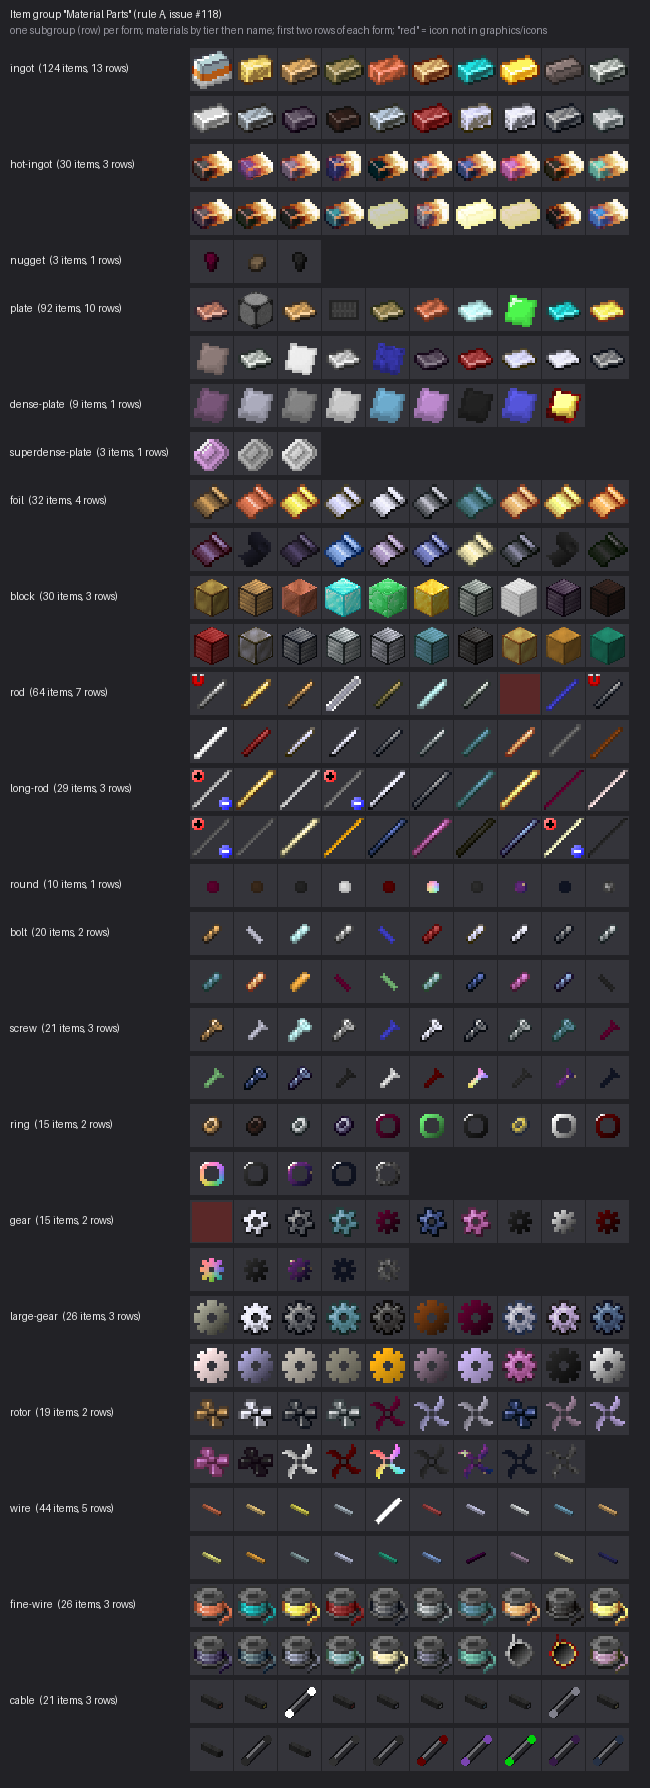
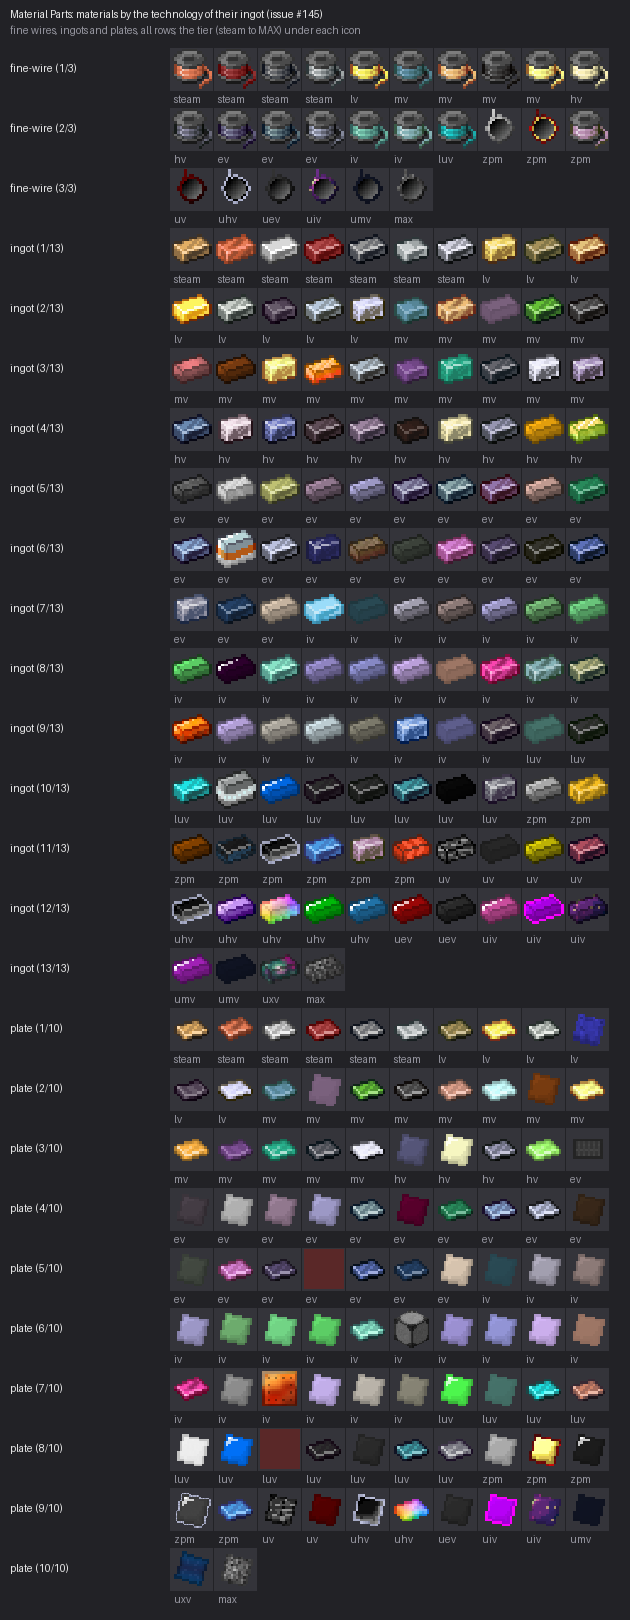
Order the material parts by the technology that unlocks the ingot (issue #145)
The tier of a material in the Material Parts tab was the tier of the fluid
solidifier that casts it (europium: LV), not the one the player meets it in.
Now it is the tier of the earliest technology that unlocks a recipe making its
ingot (the highest science pack of the technology; a recipe enabled from the
start counts as steam), for a material without an ingot the earliest technology
of any of its parts. The file moves to 200 and loads after 199, so the unlocks
199 adds count. 81 materials keep their place, 50 move later, 8 earlier.

diff --git a/tools/devcheck/devcheck.py b/tools/devcheck/devcheck.py
@@ -511,7 +511,7 @@ def check_fluid_steps(sec):
 
 
 def check_material_parts(sec):
-    """Issue #118 (prototypes/194-fork-material-parts.lua): the material parts are in the rows of the item group "Material
+    """Issue #118 (prototypes/200-fork-material-parts.lua): the material parts are in the rows of the item group "Material
     parts", one per form, the materials by tier. A material with no tier (no solidifier tier, no recipe that makes one of its
     parts) goes last in its rows: a warning, its place is the table of tiers in 143 or a recipe. Returns (info line,
     materials without a tier)."""
@@ -767,7 +767,7 @@ def check(a):
     report("items that only the crafting table or the hand can make, without an entry in FORK_RECIPES_TABLE_ONLY", table_only)
     parts_info, parts_unranked = check_material_parts(sec)
     print(f"\nmaterial parts (issue #118): {parts_info}")
-    report("WARNING: materials of the material parts without a tier (prototypes/194-fork-material-parts.lua)", parts_unranked)
+    report("WARNING: materials of the material parts without a tier (prototypes/200-fork-material-parts.lua)", parts_unranked)
     microminer = check_microminer_tab(sec)
     report("Microverse Projector recipes outside the Microminer tab (issue #120)", microminer)
     report("WARNING: fluids of the Fluids tab with an icon of the base game or Space Age (issue #119; "

diff --git a/tools/devcheck/README.md b/tools/devcheck/README.md
@@ -25,7 +25,7 @@ linked in, so every run tests the current files.
 
 | Command | What it does |
 |---|---|
-| `check` | Creates a map. Reports load errors, draft recipes hidden by the draft guard (it fails on one that is not in the documented rest list `DRAFTS_OK`, issue #39; drafts removed for good are deleted in `prototypes/137-fork-endgame-materials.lua` and counted as `FORK-REMOVED`), researchable technologies, where progression stops, every technology that cannot be researched and the disabled or missing prerequisites that block it (it fails if one is not in the list `UNRESEARCHABLE_OK` of vanilla armor, equipment and military techs, if one of the 23 quality-of-life techs of issue #29 in `QOL_TECHS` is neither researchable nor hidden, or if an `UNRESEARCHABLE_OK` entry became researchable, hidden or missing), missing `__gregtorio-continued__/` files, too small sprite sheets, and unlocked recipes that cannot be crafted (no machine, unobtainable ingredient, not enough fluid ports; a fuel that a burner which can be built burns leaves its burnt result, so the depleted fuel rods count as obtainable). Recipe unlocks (issue #91): every recipe that Gregtorio creates or changes (`prototypes.get_history`, logged by `checkmod/control.lua`) and that is not hidden must be enabled or unlocked by a researchable technology, unless it is in the allow-list `FORK_RECIPES_LOCKED` (`prototypes/142-fork-recipe-unlocks.lua`, with the reason); an entry that does not exist or is unlocked fails too. The recipes in `REQUIRED_RECIPES` (issue #35: grades 7 and 8, the quark creation catalyst, FPIC/APIC wafers and chips, complex SMDs; the materials of issues #39 and #36; the plasma forge and QFT of phase 6a; the godforge, its products and the MAX tier of phase 6b) must be unlocked by a researchable technology and their products obtainable. Crafting menu (issue #49): every recipe that is enabled or unlocked by a technology, not `hidden` and whose category has a machine must not be `hide_from_player_crafting`, unless it is in the allow-list `FORK_CRAFTING_MENU_HIDDEN` (`prototypes/198-fork-crafting-menu.lua`, by category, subgroup or name); it prints how many are shown and kept hidden and the recipes shown per crafting menu tab, and also fails on allow-list entries that match nothing. Skipped when the startup setting `gregtorio-continued-show-machine-recipes` is off. Material parts (issue #118, `prototypes/194-fork-material-parts.lua`): `check` prints how many parts of how many materials are in the rows by form and warns for a material that has no tier (section `MATERIALPARTS` of the dump). Microminer tab (issue #120, `prototypes/195-fork-microminer-tab.lua`): every recipe of a Microverse Projector's categories, the projectors and their controller must be in a row of the item group `microminer-tab` (one tab in the projector's recipe window). Crafting table and hand only items (issue #126, `prototypes/148-fork-gtnh-table-items.lua`): a reachable item whose every recipe is table or hand only (no obtainable machine has its category except the crafting table and the ME Molecular Assembler; the character is no machine) fails unless the recipes are in the allow-list `FORK_RECIPES_TABLE_ONLY` with their reason; an entry that is not such a recipe fails too (section `TABLEONLYOK` of the dump). Fluids tab: every fluid that is not hidden (the base game's parameter fluids excepted) must have a subgroup of the item group `fluids`, else Factorio shows it under "Unsorted" (`prototypes/196-fork-subgroups.lua`); the check covers every fluid of the load, so also a vanilla fluid that Gregtorio redefines; fluids in the fallback row `gregtorio-fluids-unsorted` are listed as a warning; so are fluids of the tab whose icon is not a Gregtorio file (issue #119), unless the fluid is in the allow-list `FORK_FLUID_ICONS_KEPT` of `prototypes/196-fork-subgroups.lua` with its reason; it prints the rows with their sizes. Fluid steps (issue #117, `prototypes/197-fork-fluid-steps.lua`): the game cuts every fluid amount of a recipe at a multiple of 2^-24, so every amount of every recipe must be a multiple of it (`check` lists the ones that are not; section `FLUIDSTEPS` of the dump). `--fluids-out fluids.tsv` writes the fluids with subgroup, order and icon (section `FLUIDS` of the dump), the input of `tools/gen_review_sheet.py fluids`. `--locale-out names.tsv` also writes the input for `tools/gen_locale.py`. `--techs REGEX` lists the matching technologies and whether they are researchable. `--balance-out dump.json` writes the recipes (amounts, times), machine speeds and technology unit counts as JSON (section `BALANCE` of the dump), the input of `tools/balance_model.py`. Cheap research: with the startup setting `gregtorio-continued-one-pack-research` on, every technology with science packs must cost one unit of one pack of each kind (`prototypes/fork-one-pack-research.lua`); with it off, the check only reports how many cost more. `--set <setting>=true|false` forces a bool startup setting for the run (a generated helper mod sets it in the settings stage); every run starts from the default settings, `mod-settings.dat` is removed. |
+| `check` | Creates a map. Reports load errors, draft recipes hidden by the draft guard (it fails on one that is not in the documented rest list `DRAFTS_OK`, issue #39; drafts removed for good are deleted in `prototypes/137-fork-endgame-materials.lua` and counted as `FORK-REMOVED`), researchable technologies, where progression stops, every technology that cannot be researched and the disabled or missing prerequisites that block it (it fails if one is not in the list `UNRESEARCHABLE_OK` of vanilla armor, equipment and military techs, if one of the 23 quality-of-life techs of issue #29 in `QOL_TECHS` is neither researchable nor hidden, or if an `UNRESEARCHABLE_OK` entry became researchable, hidden or missing), missing `__gregtorio-continued__/` files, too small sprite sheets, and unlocked recipes that cannot be crafted (no machine, unobtainable ingredient, not enough fluid ports; a fuel that a burner which can be built burns leaves its burnt result, so the depleted fuel rods count as obtainable). Recipe unlocks (issue #91): every recipe that Gregtorio creates or changes (`prototypes.get_history`, logged by `checkmod/control.lua`) and that is not hidden must be enabled or unlocked by a researchable technology, unless it is in the allow-list `FORK_RECIPES_LOCKED` (`prototypes/142-fork-recipe-unlocks.lua`, with the reason); an entry that does not exist or is unlocked fails too. The recipes in `REQUIRED_RECIPES` (issue #35: grades 7 and 8, the quark creation catalyst, FPIC/APIC wafers and chips, complex SMDs; the materials of issues #39 and #36; the plasma forge and QFT of phase 6a; the godforge, its products and the MAX tier of phase 6b) must be unlocked by a researchable technology and their products obtainable. Crafting menu (issue #49): every recipe that is enabled or unlocked by a technology, not `hidden` and whose category has a machine must not be `hide_from_player_crafting`, unless it is in the allow-list `FORK_CRAFTING_MENU_HIDDEN` (`prototypes/198-fork-crafting-menu.lua`, by category, subgroup or name); it prints how many are shown and kept hidden and the recipes shown per crafting menu tab, and also fails on allow-list entries that match nothing. Skipped when the startup setting `gregtorio-continued-show-machine-recipes` is off. Material parts (issue #118, `prototypes/200-fork-material-parts.lua`): `check` prints how many parts of how many materials are in the rows by form and warns for a material that has no tier (section `MATERIALPARTS` of the dump). Microminer tab (issue #120, `prototypes/195-fork-microminer-tab.lua`): every recipe of a Microverse Projector's categories, the projectors and their controller must be in a row of the item group `microminer-tab` (one tab in the projector's recipe window). Crafting table and hand only items (issue #126, `prototypes/148-fork-gtnh-table-items.lua`): a reachable item whose every recipe is table or hand only (no obtainable machine has its category except the crafting table and the ME Molecular Assembler; the character is no machine) fails unless the recipes are in the allow-list `FORK_RECIPES_TABLE_ONLY` with their reason; an entry that is not such a recipe fails too (section `TABLEONLYOK` of the dump). Fluids tab: every fluid that is not hidden (the base game's parameter fluids excepted) must have a subgroup of the item group `fluids`, else Factorio shows it under "Unsorted" (`prototypes/196-fork-subgroups.lua`); the check covers every fluid of the load, so also a vanilla fluid that Gregtorio redefines; fluids in the fallback row `gregtorio-fluids-unsorted` are listed as a warning; so are fluids of the tab whose icon is not a Gregtorio file (issue #119), unless the fluid is in the allow-list `FORK_FLUID_ICONS_KEPT` of `prototypes/196-fork-subgroups.lua` with its reason; it prints the rows with their sizes. Fluid steps (issue #117, `prototypes/197-fork-fluid-steps.lua`): the game cuts every fluid amount of a recipe at a multiple of 2^-24, so every amount of every recipe must be a multiple of it (`check` lists the ones that are not; section `FLUIDSTEPS` of the dump). `--fluids-out fluids.tsv` writes the fluids with subgroup, order and icon (section `FLUIDS` of the dump), the input of `tools/gen_review_sheet.py fluids`. `--locale-out names.tsv` also writes the input for `tools/gen_locale.py`. `--techs REGEX` lists the matching technologies and whether they are researchable. `--balance-out dump.json` writes the recipes (amounts, times), machine speeds and technology unit counts as JSON (section `BALANCE` of the dump), the input of `tools/balance_model.py`. Cheap research: with the startup setting `gregtorio-continued-one-pack-research` on, every technology with science packs must cost one unit of one pack of each kind (`prototypes/fork-one-pack-research.lua`); with it off, the check only reports how many cost more. `--set <setting>=true|false` forces a bool startup setting for the run (a generated helper mod sets it in the settings stage); every run starts from the default settings, `mod-settings.dat` is removed. |
 | `runtime` | Places every assembling machine that has an item, gives it a recipe and power and runs the map (`--ticks`, default 1500) with a fixed map seed (`--seed`, see below). The ME network's runtime tests are in the mod me-network since issue #83 (`docs/SPLIT.md`): its `tools/devcheck/devcheck.py all --with-gregtorio <this checkout>` runs them on Gregtorio's recipes and machines. An LV alloy smelter with a mold recipe must stop without a mold, then run with a mold in its mold slot (checked when the first glass is out, at the latest 900 ticks later) and keep it there. Endgame power (`prototypes/136-fork-power.lua`, `scripts/fork-power.lua`): a LuV large plasma turbine with helium plasma and a turbine output hatch next to it and a UV large naquadah reactor with naquadah based fuel MK1, each with an electric energy interface drawing the generator's full output; at tick 420 both must generate, the turbine must have burnt about one plasma per second and the hatch must hold the cooled helium for it, the reactor must have burnt fuel at its rate; it reports `power test: ok`. Fuel check (issue #25, `scripts/fork-power.lua`): a LuV plasma turbine with steam from a pipe, a UV naquadah reactor with steam, a plasma turbine with naquadah fuel, a naquadah reactor with helium plasma, a UXV plasma turbine with steam and a UEV plasma turbine with naquadah fuel, each under full load in its own network, must make no power, keep all their fluid and show "Wrong fuel"; after they are emptied and get the right fuel they must run with no status. A running plasma turbine whose plasma is replaced by steam between two checks may burn steam for at most one check interval (10 ticks) and must then stay stopped; it reports `fuel check test: ok (window: ...)`. Cooled fluid (issue #28, `scripts/fork-power.lua`): LuV plasma turbines, each with an output hatch and a load set every tick, burn 4 helium plasma at full load, 2 at 40 % and 1.5 under a burst load (full for 5 ticks out of 23) to the last drop, and each hatch must then hold that much helium; an idle turbine returns only what filling its load's buffer took; a hatch that starts full keeps the rest owed and gets all of it once emptied; two turbines side by side on helium and nitrogen plasma fill only their own hatch. A running turbine is compared as hatch + owed + the energy of the current step / fuel value, tolerance 0.1 % + 0.001 units; it reports `cooled fluid test: ok (... worst error ...)`. The power test uses the same tolerance. Turbine tiers (issue #34): one UHV to UXV large plasma turbine each (helium, nitrogen and iron plasma), a UXV one on neon plasma and two MAX ones (phase 6b: helium and neon plasma), each with an output hatch and a load of twice its output, must generate exactly four amps of their tier per tick and, once their plasma is burnt to the last drop, hold exactly that much cooled fluid (helium, nitrogen, molten iron, neon) in the hatch, same tolerance; it reports `turbine tier test: ok (...)`. Recipes (issue #35, `prototypes/129-fork-water-purification.lua`): above the machine grid, a water purification plant each for grade 7 and grade 8 water, UHV/UEV laser engravers and assembling machines for the FPIC/APIC wafers and chips, UV assembling machines for the five complex SMDs, ZPM assembly lines for the quark creation catalyst, the UEV and UIV energy hatches and the MK4 controller, a circuit assembly line for the wetware mainframe, and for issues #39 and #36 (`prototypes/137-fork-endgame-materials.lua`) the circuit assembler lapotronic energy orb cluster, the high density plutonium steps and the plutonium fuel, super coolant, the 1080k super coolant cell, the fluxed electrum, bedrockium and quantium ingots and melts, naquadah fuel MK2, grade 5 water and the UXV energy hatch, phase 6a's plasma forge catalyst and crude spacetime and a QFT recipe, and phase 6b's raw star matter and neutronium magmatter in a godforge, the stellar catalyst in a plasma forge, the MAX motor, the maximum voltage coil in a MAX assembler and the MAX science pack from MAX parts, and for issue #91 (`prototypes/142-fork-recipe-unlocks.lua`) signalum, the naquadah doped boule, charcoal byproducts, cyanoacetic acid and super glue, nether air in its ender tank, 64 LV motors in the component assembly line, a microminer mission, a depleted fuel rod, a block, a molten alloy and its ingot, a cast of every form (ingot, plate, block, nugget, gear, large gear, rotor, rod, long rod, bolt, ring, screw, round) and three melts of the fluid extractor (`prototypes/143-fork-casting.lua`), blast furnace recipes with neon, krypton and xenon, nitric acid from nitrogen dioxide, raw gasoline, gasoline and the gasoline cell (`prototypes/144-fork-dead-fluids.lua`), and for issue #98 (`prototypes/147-fork-gt-routes.lua`) the sodium persulfate printed board and sodium persulfate, black plutonium and cosmic neutronium in the blast furnace and vacuum freezer, the high octane line (its reactor recipe has five fluid inputs) with its cell, deuterium from hydrogen and the PPIC wafer with molten sunnarium get exactly one craft's ingredients (every item and fluid must fit; a recipe that needs a mold gets one in the mold slot); once a machine crafts, its progress is set close to the end and its main product must come out by tick 900; it reports `recipe test: ok`. Steam turbines (issue #97, `prototypes/145-fork-power-multiblocks.lua`): a large steam turbine on steam and a high pressure steam turbine on superheated steam, each overloaded and with an output hatch, must make exactly their full output (11.25 and 28.35 MW) at tick 240, have burnt their GT flow (180 and 210 per second, counted in the turbine and its pipeline segment) and their hatches must hold 0.0625 distilled water per steam and one steam per superheated steam (hatch + owed + the energy of the current step, the tolerance of the cooled fluid test); superheated steam in the large turbine and steam in the high pressure one must stop them with "Wrong fuel"; each multiblock of issue #97 is put into a blueprint (it must be in it) and mined (its item must come back); it reports `steam turbine test: ok (...)`. Nuclear chain (issue #97): a fluid nuclear reactor with two uranium rods (the first shortened to 2 s) piped into a large heat exchanger on superheated steam, a high pressure steam turbine on it, its steam through an output hatch and pipes into a large steam turbine, both turbines under a load of twice their output; coolant and distilled water are topped up every tick. At tick 1380 a depleted rod must be out and the second rod burning, both turbines must have made power, and their energy since tick 300 must be 3.95 MJ per hot coolant the reactor made (60 % to 125 %: the 4 s crafts and the pipes); a second heat exchanger on the steam recipe turns 32 hot coolant and 80 distilled water into exactly 1280 steam and 32 coolant; it reports `nuclear chain test: ok (...)`. Lapotronic supercapacitor (issue #97): an IV supercapacitor on a network with a LuV plasma turbine (an electric energy interface is tertiary like the accumulator and cannot charge it) must charge at its 20.48 MW from tick 20 to 300 (within 3 %); the turbine is then removed and a UHV air collector (40.96 MW, its air removed every tick) runs from it, which it must feed at 20.48 MW from tick 320 to 600; the IV, LuV and ZPM ones must hold 1012.5, 5062.5 and 25 312.5 GJ; a ZPM one without a network set to 1 TJ at tick 100 must have lost exactly 1 % of its capacity per day for every 10-tick step since; it reports `supercapacitor test: ok (...)`. Melts and casts (issue #117): for every extractor recipe that gives 14.4 of a fluid per ingot and every recipe of the solidifier and vacuum freezer categories that takes only that fluid, the n ingots that are worth m casts (n x 14.4 = m x the cast's amount) must give at least what m casts take, with the amounts the engine holds (131 melts, 468 combinations); in machines an LV extractor melts ten iron ingots (a craft that is under way is finished at once), nine melts in an LV fluid solidifier must start and make the block cast with no tenth melt, the tenth one an ingot cast, and ten melts must hold at least 144; it reports `melt test: ok (...)`. Offered recipes (issue #126): for the five machine recipes that were hidden from the crafting menu (`burner-inserter`, `iron-chest`, `iron-stick`, `pipe`, `chest`) the technology that unlocks the recipe is researched by script, the recipe must then be enabled and not hidden from the crafting menu and the lowest machine of its category must take it as its recipe (`offered recipes test: ok (...)`). Supercapacitor upgrade (issue #124, `scripts/fork-power.lua`): a charged IV supercapacitor (500 GJ) replaced by a LuV one (fast replace, built event raised) must hold the same energy (5 MJ tolerance), a LuV one filled to 3000 GJ and replaced by an IV one must hold the IV capacity, and a LuV one built over the spot of one that was destroyed a minute before must start empty; it reports `supercapacitor upgrade test: ok (...)`. When every other test has reported (at the latest at tick 1450, a test still running then is reported as unfinished) the technology `victory` is researched by script and the game must be finished (`scripts/fork-victory.lua`); winning stops the scripts of the benchmark, so this runs last. In the same tick the post-victory test (phase 6b) researches the prerequisites of the infinite `godforge-upgrades` by script; the engine must accept it in the research queue (`victory` is no prerequisite: an infinite technology counts only at its last level), and its first level must give the godforge's magmatter recipe +5 % productivity (`post-victory test: ok`). |
 | `migrate --from-ref <tag/commit>` or `--from-zip <zip>` | Creates a save (same fixed map seed, `--seed`) with an older version and loads it with the working copy. When the working copy still has the version of the old save (between releases), it is loaded as a zip one patch version up, as the release will be, so that Gregtorio's `on_configuration_changed` runs with its mod changes. `--old-me-network <ref>` creates the old save with that release of the me-network checkout (exported with `git archive`; Gregtorio 0.5.0 shipped with me-network v0.1.0, whose fluid interface the current me-network no longer has) and loads it with the current one. Technology effects (issue #91): the old save researches a few technologies with their prerequisites (`TT_TECHS` of `migratemod/`); after the update every recipe that a researched technology unlocks must be enabled (the technology effect reset of `control.lua` brings the new unlocks into existing saves; `technology effects of the old save: ok (... N of them new)`). The unmodified upstream 0.1.9 import is commit `0e935ba` (tag `v0.1.9-upstream`). If the old version has ME fluid drives, the helper mod `migratemod/` builds two loaded drives in a network, a loaded drive outside any network, recovered fluid without a network at its place and a chest with two loaded fluid drive items; after the update (issue #68 R2) the drives must be ME Drives with four 1k fluid cells holding their fluid, the recovered fluid must be in the nearest drive with room, the items' fluid in fluid cells next to the untagged items, and the migration report (`FORK-ME-MIGRATE: fluids`, printed) must count the same units before and after (`fluid drives of the old save: ok`; `skipped` for older versions). An old version with the cable network of R1 builds the same on a controller connected by cables. If the old version has the large naquadah reactor, it also builds one full of steam under load, which must be stopped with the "Wrong fuel" status and keep its steam after the update (`reactor on steam in the old save: ok`; `skipped` for older versions). If the old version has pattern providers, it also builds a Molecular Assembler with the gear recipe and a fresh iron furnace with providers, and chooses the furnace's recipe in its provider (versions with the choice): after the update (issue #80) the assembler's provider must hold a crafting pattern of the gear recipe and the furnace's provider a processing pattern of the chosen recipe, both usable and their items craftable (`FORK-ME-MIGRATE: patterns` lines, printed; `pattern providers of the old save: ok`; `skipped` for older versions). In the same network it starts a gear job with the old version on a powered crafting CPU and (versions with it) sets a level maintainer to keep 8 gears; after the update (which rebuilds the CPU records, issue #38) the job must finish with the gears in storage, the CPU must count one free job slot and the maintainer must then finish a job of its own (`crafting job of the old save: ok`). Old versions that store fluids in cells already (0.4.0 and later) have no fluid drives to convert (`fluid drives of the old save: skipped`). A save of 0.5.1 (me-network 0.3.0, `--old-me-network v0.3.0`) has no fluid interface to hand over (`skipped`) and its crafting CPUs are multiblocks, so a lone ME Crafting CPU starts no job (`crafting job of the old save: skipped`). Default `--ticks` 600. If the old version has the logistic ME network (before issue #68), the old save also gets a 1k drive with items (another quality, a blueprint the new network cannot store), a requester interface with items in its inventory and trash, a terminal, a second controller in the same logistic network, a chest with 16 storage cells on one stack, old drive items and the ghost of an old drive; after the update no old entity may be left, every block must be connected to the new controller, the new drives must hold four cells of their tier, the migration report (`FORK-ME-MIGRATE` lines, printed) must have counted exactly the old chests' items and found no difference, those items must be in the network (the job's items aside) and the blueprint in an overflow chest, and the cells and old items must be kept (`ME network of the old save converted (issue #68): ok`; `skipped` for older versions). The test area of the old save is landfilled (the migration cannot lay cables on water). If the old version has the large plasma turbine, it also builds one on helium plasma under full load with an output hatch: after the update it must run and, at tick 120, return one helium per plasma burnt within 0.1 % (`plasma turbine of the old save: ok`; `skipped` for older versions). A map that could not be saved (for example a function in `storage`) is reported instead of running the previous map file. Issue #83: the working copy is loaded together with me-network (a checkout or its zip, see Setup), the old version without it; the ME state of the old save is handed over to me-network when it loads. The fingerprints of every handed table (`FORK-ME-HANDOVER: gave` of gregtorio-continued, `ME-NETWORK-HANDOVER: got` of me-network) must be equal (`hand-over fingerprints: ok`). Versions with storage buses, fluid cells and drive settings (0.4.0 and later) also get a network for the hand-over: a drive with a partitioned item cell, a second item cell and a fluid cell and priority 7, reached only through an underground cable pair, an ME Interface with a config row, an import and an export bus with filters, a storage bus on a chest of stone and a fluid storage bus on a tank of water (filters, priority, mode), a fluid interface set to export; after the update the totals of items and fluids (in cells, chests, tanks and the interface) and every block's settings must be the ones of the old save and the drive must still be in the controller's network (`ME state handed over to me-network (issue #83): ok`). Versions with encoded patterns (0.5.0 and later) give the old providers their patterns through the terminal's encoding function. Removed fluids and items (issues #98, #96): the old save holds every fluid and item of `RM_FLUIDS` and `RM_ITEMS` (`migratemod/`) that it has in storage tanks and a chest; after the update the JSON migrations of `migrations/` must have turned them into their counterparts, same amounts (`removed fluids and items of the old save: ok`). |
 | `menusim` | Runs main menu simulations (PR #65) the way the main menu does: the helper mod `menusimmod/` copies `main_menu_simulations` as the game has them after every mod into a mod-data prototype, devcheck loads the simulation's save with `--benchmark` for the simulation's length, and the helper runs its init chunk on the first tick (after the mods' `on_init` and `on_configuration_changed`, as in the menu) and its update chunk every tick; `game.simulation` (the menu camera) gets a stand-in. A game won by the init chunk (`research_all_technologies()` researches `victory`) is set running again, because the menu keeps running a simulation and the benchmark would not. It logs the force bonuses and every character's armor at the start, every second each character's health, shields, battery energy, enemies within 20 tiles and the damage taken by type and source, and every character death with its cause. `--sim NAME` (default `nauvis_biter_base_laser_defense`, prints the log) or `--sim all` (one line per simulation, `--verbose` for the log), `--compare` also runs the simulations without Gregtorio, `--ticks N` overrides the length. Fails on an error in a simulation's script. |

diff --git a/CLAUDE.md b/CLAUDE.md
@@ -52,11 +52,11 @@
   producers of fluids nothing made or used; the blast furnace gas variants of `EBF_GASES` are in `FORK_GAS_VARIANTS`,
   which 199's auto-unlock ignores like the casts), 148 GTNH table items (issue #126: GTNH's machine recipes for the anvil, the firebrick block and paper, which the crafting table made; the reachable hand-only vanilla recipes (firearm magazine, light armor, rail ramp and support, wood processing) moved into `crafting-or-assembling-recipes`; the allow-list `FORK_RECIPES_TABLE_ONLY` of recipes of items that only the crafting table, the ME Molecular Assembler or the hand make, each with its reason; devcheck fails for a reachable item whose every recipe is such a recipe and not in it; loads after 144 and before 150), 149 early research (issue #127: the unit counts of the technologies with red and green packs only, 80 and more, cut to a quarter; the cheap research setting wins), 150 molds (mold slot instead of mold ingredient; must load after every file that creates
   machines), 190 manual-labor
-  burner usage (fist icon in the fuel slot), 191 burner fire (issue #137: the fire animations of the stone and iron furnace and the small coal boiler, drawn only while they work; `tools/gen_fire_sprites.py`), 194 material parts (issue #118, rule A: the item group "Material parts", one row per form, the materials by tier inside it, by name pattern; items only, the recipes keep their machine rows; the tier of a material comes from `FORK_CASTING.tiers` of 143, else from the lowest machine tier of a recipe that makes one of its parts; devcheck warns for a material with none; loads after 150), 195 microminer tab (issue #120: the Microverse Projectors as the first row of the Microminer tab, one row per tier t1 to t4 with its microminer, data, mission and ender tank, empty rows deleted; devcheck fails for a projector recipe outside the tab), 196 subgroups (the Fluids tab: every Gregtorio fluid gets a row of the item
+  burner usage (fist icon in the fuel slot), 191 burner fire (issue #137: the fire animations of the stone and iron furnace and the small coal boiler, drawn only while they work; `tools/gen_fire_sprites.py`), 195 microminer tab (issue #120: the Microverse Projectors as the first row of the Microminer tab, one row per tier t1 to t4 with its microminer, data, mission and ender tank, empty rows deleted; devcheck fails for a projector recipe outside the tab), 196 subgroups (the Fluids tab: every Gregtorio fluid gets a row of the item
   group `fluids` by its explicit table or a name pattern; a new fluid goes into one, the fallback row
   `gregtorio-fluids-unsorted` is a devcheck warning; issue #119: Gregtorio icons for molten iron, molten copper and steam, the twelve unused vanilla fluids hidden (`FORK_FLUIDS_HIDDEN`); a fluid that keeps another mod's icon on purpose goes into `FORK_FLUID_ICONS_KEPT`, devcheck warns otherwise; loads after every file that creates fluids), 197 fluid steps (issue #117: every fluid amount of a recipe that is not a multiple of the engine's step 2^-24 is set on the grid, takes up, gives up and nine steps more, so n melted ingots cover every cast they are worth; loads after every file that makes or changes a recipe; devcheck fails for an amount off the grid), 198 crafting menu (shows machine recipes, which upstream
   `create_recipe` hides; a recipe that must stay hidden goes into its allow-list
-  `FORK_CRAFTING_MENU_HIDDEN`, devcheck fails otherwise; startup setting in `settings.lua`), 199 finalize.
+  `FORK_CRAFTING_MENU_HIDDEN`, devcheck fails otherwise; startup setting in `settings.lua`), 199 finalize, 200 material parts (issues #118 and #145: the item group "Material parts", one row per form, the materials inside a row by the tier of the technology that unlocks their ingot (its highest science pack), else of any part; items only, the recipes keep their machine rows; devcheck warns for a material with no tier; loads after 199 so the final unlocks count).
   The phase plan is in `docs/ROADMAP.md`.
   Runtime fork code lives in `scripts/` and is required from `control.lua` (`fork-molds.lua`, `fork-victory.lua`,
   `fork-power.lua`, and `fork-me-handover.lua`: the one-time hand-over of the ME state of saves from before issue #83 to

diff --git a/README.md b/README.md
@@ -51,12 +51,12 @@ The repository root is the mod itself (`info.json`, `data.lua`, `prototypes/`, `
 | `prototypes/190-fork-manual-labor.lua` | "manual labor" burner usage: fist instead of the gas pump in the fuel slot, "No manual labor" status |
 | `scripts/fork-me-handover.lua` | issue #83: the one-time hand-over of the ME state of older saves to me-network (remote interface `gregtorio-me-handover`, taken by me-network in its `on_init`; fingerprints of every table) |
 | `prototypes/191-fork-burner-fire.lua` | issue #137: fire animations (`tools/gen_fire_sprites.py`) for the stone furnace and the iron furnace (a glow in the lower opening while they smelt) and the small coal boiler (its picture is the one without fire, the fire of its own pixels is drawn while it burns); contact sheet `docs/graphics-review/burner-fire.png` |
-| `prototypes/194-fork-material-parts.lua` | issue #118: the material parts (ingots, plates, blocks, rods, gears, rotors, wires ... of every material: 20 forms, 633 items) in the item group "Material parts", one row per form in GregTech's prefix order, the materials by tier inside a row; items only, the recipes keep the rows of their machines; `devcheck.py check` warns for a material without a tier |
 | `prototypes/195-fork-microminer-tab.lua` | issue #120: the Microminer tab: a first row of the Microverse Projectors (and their controller), then one row per tier (t1 to t4) with its microminer, the data it needs, its mission and the ender tank of its projector; items and recipes in the same rows and order; the unused rows t5 to t12 deleted; `devcheck.py check` fails for a projector recipe outside the tab |
 | `prototypes/196-fork-subgroups.lua` | the Fluids tab: a subgroup of the item group `fluids` for every Gregtorio fluid (17 rows: the vanilla row, water and air, gases, acids, ore solutions, fuels, organic chemistry, polymers, nuclear and naquadah, coolants, purified water, plasmas, molten elements, alloys, superalloys and exotic metals, endgame), by an explicit table and name patterns, fallback row `gregtorio-fluids-unsorted`; the vanilla fluids upstream redefines get their vanilla row back; issue #119: Gregtorio icons for molten iron, molten copper (Space Age's fluids, the same prototypes, in the molten row) and steam, and the twelve vanilla and Space Age fluids nothing uses hidden (`FORK_FLUIDS_HIDDEN`); the iron gear item out of "Unsorted" |
 | `prototypes/197-fork-fluid-steps.lua` | issue #117: the engine keeps fluid amounts in steps of 2^-24 and cuts a recipe's amount at the step below (14.4 became 14.399999976, nine melted ingots did not fill a block cast); every fluid amount of a recipe that is off that grid is rounded up (takes) or up and nine steps more (gives); `devcheck.py check` fails for an amount off the grid |
 | `prototypes/198-fork-crafting-menu.lua` | machine recipes in the crafting menu (issue #49): shows every recipe whose category has a machine (red background, like vanilla), except the allow-list `FORK_CRAFTING_MENU_HIDDEN` (fluid voiding, replaced vanilla recipes, recipes vanilla hides); startup setting `gregtorio-continued-show-machine-recipes` (`settings.lua`, default on) |
 | `prototypes/199-fork-finalize.lua` | draft guard (hides broken draft recipes) and auto-unlock of intermediates |
+| `prototypes/200-fork-material-parts.lua` | issue #118: the material parts (ingots, plates, blocks, rods, gears, rotors, wires ... of every material: 20 forms, 633 items) in the item group "Material parts", one row per form in GregTech's prefix order, the materials inside a row by the tier of the technology that unlocks their ingot (issue #145; loaded after 199); items only, the recipes keep the rows of their machines; `devcheck.py check` warns for a material without a tier |
 | `locale/en/fork.cfg` | generated names for entries without a translation |
 | `.discord/server.yml` | this mod's category on the Discord server (channels, forum tags), applied by `.github/workflows/discord.yml` with the tool of https://github.com/Rykon00/gregtorio-me-network_discord-bot; a pull request that only changes `.discord/` is merged and applied automatically |
 | `tools/dev_link.py` | links the repo into the Factorio mods folder (working copy is loaded directly) |
